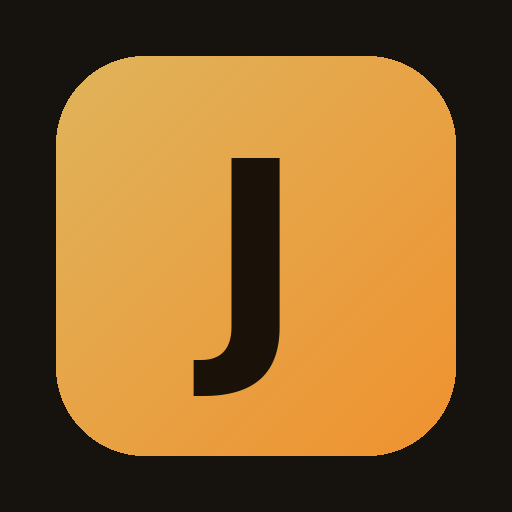
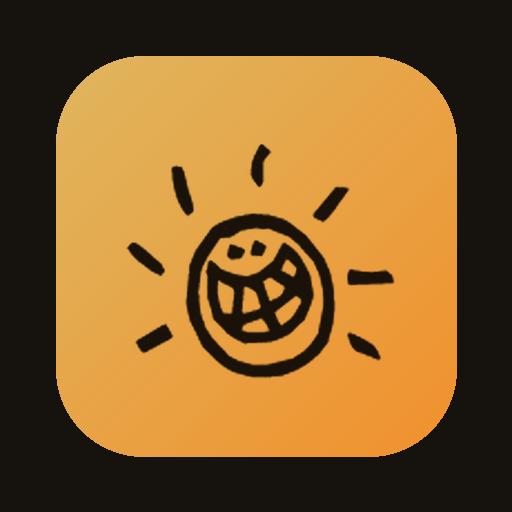
מיתוג: הלוגו הרשמי של JEM'S בכניסה, בסרגל ובאייקון מסך הבית
Claude-Session: https://claude.ai/code/session_018uD9h6BijnPvXeitrHajbX

diff --git a/app.js b/app.js
@@ -64,8 +64,13 @@ var CODE_LEN = (window.JEMS_CONFIG && window.JEMS_CONFIG.codeLength) || 8;
   }
 
   // ---------- login ----------
+  // Logo comes in two inks: dark for day mode, light for night mode. CSS shows the right one.
+  function logoImg(name, alt) {
+    return '<img class="ink ink-dark ' + name + '" src="icons/' + name + '-dark-ink.png" alt="' + alt + '">' +
+      '<img class="ink ink-light ' + name + '" src="icons/' + name + '-light-ink.png" alt="" aria-hidden="true">';
+  }
   function brand() {
-    return '<div class="brand"><div class="wordmark" lang="en">JEMS</div><h1>ביקור סניף</h1><small>מערכת ביקורת ותפעול</small></div>';
+    return '<div class="brand">' + logoImg('logo', 'JEM\'S Beer Factory') + '<h1>ביקור סניף</h1><small>מערכת ביקורת ותפעול</small></div>';
   }
   function renderEmail(err) {
     h('<div class="login"><div class="glow"></div>' + brand() +
@@ -163,7 +168,7 @@ var CODE_LEN = (window.JEMS_CONFIG && window.JEMS_CONFIG.codeLength) || 8;
   function renderShell() {
     var role = state.roles[0] ? ROLE_NAMES[state.roles[0]] : 'בלי הרשאה עדיין';
     h('<header class="topbar">' +
-      '<div class="wordmark sm" lang="en" aria-label="JEMS">JEMS</div>' +
+      '<span class="topmark">' + logoImg('sun', 'JEM\'S') + '</span>' +
       '<button class="who" id="whoBtn" aria-label="החשבון שלי"><b>' + esc(displayName()) + '</b><small>' + esc(role) + '</small></button>' +
       themeBtn() +
       (isAdmin() ? '<button class="icon-btn" id="setBtn" aria-label="הגדרות">⚙</button>' : '') +

diff --git a/index.html b/index.html
@@ -3,11 +3,11 @@
 <head>
 <meta charset="utf-8">
 <meta name="viewport" content="width=device-width, initial-scale=1, viewport-fit=cover">
-<title>JEMS · ביקור סניף</title>
+<title>JEM'S · ביקור סניף</title>
 <meta name="theme-color" content="#16120d" id="themeColor">
 <link rel="manifest" href="manifest.webmanifest">
-<link rel="icon" href="icons/icon.svg" type="image/svg+xml">
-<link rel="apple-touch-icon" href="icons/icon-192.png">
+<link rel="icon" href="icons/icon-192.png" type="image/png">
+<link rel="apple-touch-icon" href="icons/apple-touch-icon.png">
 <meta name="apple-mobile-web-app-capable" content="yes">
 <meta name="apple-mobile-web-app-title" content="ביקור סניף">
 <script>
@@ -19,7 +19,7 @@
     document.documentElement.dataset.theme = t;
   })();
 </script>
-<link rel="stylesheet" href="style.css?v=3">
+<link rel="stylesheet" href="style.css?v=4">
 </head>
 <body>
 <div id="app" aria-live="polite">
@@ -27,7 +27,7 @@
 </div>
 <div id="toast" role="status" aria-live="polite"></div>
 <script src="vendor/supabase.js"></script>
-<script src="config.js?v=3"></script>
-<script src="app.js?v=3"></script>
+<script src="config.js?v=4"></script>
+<script src="app.js?v=4"></script>
 </body>
 </html>

diff --git a/style.css b/style.css
@@ -187,12 +187,10 @@ h3.sec { font-size: 15px; color: var(--muted); font-weight: 700; margin: 26px 0 
 #toast.show { opacity: 1; transform: none; }
 .ltr { direction: ltr; unicode-bidi: isolate; }
 
-/* ---------- JEMS wordmark ---------- */
-.wordmark {
-  direction: ltr; font-family: "Arial Black", "Helvetica Neue", Arial, sans-serif; font-weight: 900;
-  font-size: 44px; line-height: 1; letter-spacing: .14em; padding-left: .14em;
-  background: linear-gradient(120deg, #c9932f, #e0b45c 45%, #f0922f);
-  -webkit-background-clip: text; background-clip: text; color: transparent;
-}
-.wordmark.sm { font-size: 19px; letter-spacing: .12em; flex: none; }
-[data-theme="light"] .wordmark { background-image: linear-gradient(120deg, #8f5f14, #b07a1e 45%, #c0610f); }
+/* ---------- JEM'S logo ---------- */
+.ink-light { display: none; }
+[data-theme="dark"] .ink-dark { display: none; }
+[data-theme="dark"] .ink-light { display: block; }
+.ink.logo { width: 168px; height: auto; margin-bottom: 10px; }
+.topmark { flex: none; display: grid; place-items: center; width: 40px; height: 40px; }
+.ink.sun { width: 40px; height: auto; }

diff --git a/sw.js b/sw.js
@@ -1,7 +1,8 @@
 // App shell cache. Data from Supabase is never cached here.
-var CACHE = 'jems-audit-s1-v3';
-var SHELL = ['./', 'index.html', 'style.css?v=3', 'app.js?v=3', 'config.js?v=3', 'vendor/supabase.js',
-  'manifest.webmanifest', 'icons/icon.svg', 'icons/icon-192.png', 'icons/icon-512.png'];
+var CACHE = 'jems-audit-s1-v4';
+var SHELL = ['./', 'index.html', 'style.css?v=4', 'app.js?v=4', 'config.js?v=4', 'vendor/supabase.js',
+  'manifest.webmanifest', 'icons/icon-192.png', 'icons/icon-512.png',
+  'icons/logo-dark-ink.png', 'icons/logo-light-ink.png', 'icons/sun-dark-ink.png', 'icons/sun-light-ink.png'];
 self.addEventListener('install', function (e) {
   e.waitUntil(caches.open(CACHE).then(function (c) { return c.addAll(SHELL); }).then(function () { return self.skipWaiting(); }));
 });
